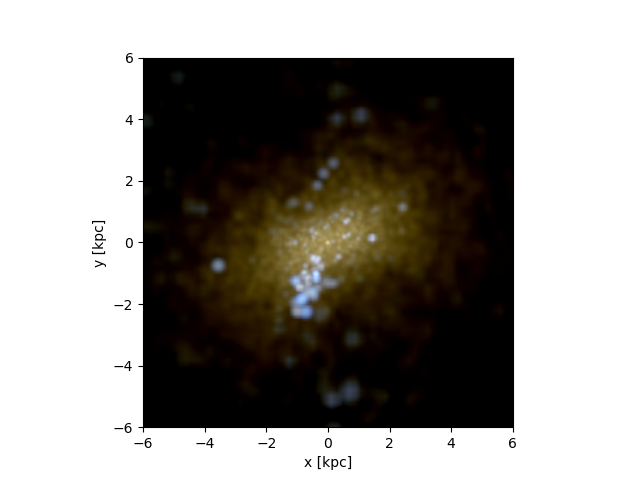
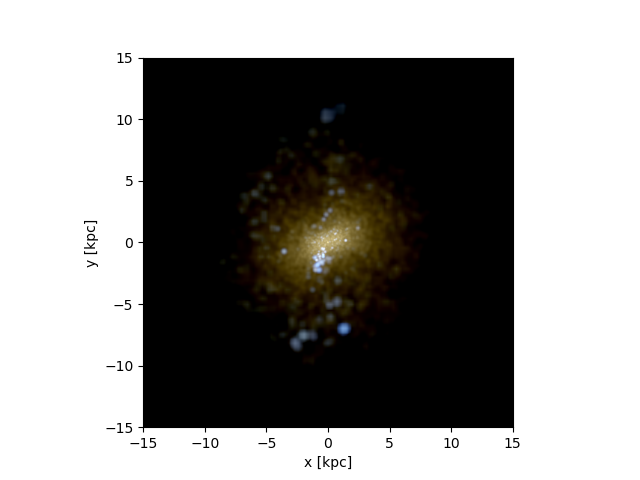
axis updated

diff --git a/r284/galaxy284_iongas.py b/r284/galaxy284_iongas.py
@@ -13,13 +13,14 @@ s=pynbody.load('/mnt/data0/jillian/gguaman/r284/cosmo25p.768sg1bwK1BHe75.007779'
 s.physical_units()
 
 #centering halo
-pynbody.analysis.angmom.faceon(s)
+#pynbody.analysis.angmom.faceon(s)
+pynbody.analysis.angmom.sideon(s)
 
 #filter to only use ionised gas
 GasFilter = pynbody.filt.HighPass('temp','15848 K')
 
 #creating image to show velocity of ionised gas
-sph.image(s.g[GasFilter],qty="vr",vmin=-20,width=40,denoise=True,approximate_fast=False,log=False)
+sph.image(s.g[GasFilter],qty="vr",vmin=-20,width=30,denoise=True,approximate_fast=False,log=False)
 
 #function to find BH
 def findBH(s):
@@ -52,4 +53,5 @@ BHz=BHposition[[0],2]
 plt.plot(BHx,BHy, 'ro')
 
 #plt.show()
-plt.savefig("galaxy284_iongas.png")
+#plt.savefig("galaxy284_iongas.png")
+plt.savefig("galaxy284_iongas(side).png")

diff --git a/r284/galaxy284_velocity.py b/r284/galaxy284_velocity.py
@@ -12,10 +12,11 @@ s=pynbody.load('/mnt/data0/jillian/gguaman/r284/cosmo25p.768sg1bwK1BHe75.007779'
 s.physical_units()
 
 #centering halo
-pynbody.analysis.angmom.faceon(s)
+#pynbody.analysis.angmom.faceon(s)
+pynbody.analysis.angmom.sideon(s)
 
 #creating gas velocity plot
-sph.image(s.g,qty="vr",width=40,denoise=True,approximate_fast=False,log=False)
+sph.image(s.g,qty="vr",width=30,denoise=True,approximate_fast=False,log=False)
 
 #function to find BH
 def findBH(s):
@@ -48,4 +49,5 @@ BHz=BHposition[[0],2]
 plt.plot(BHx,BHy, 'ro')
 
 #plt.show()
-plt.savefig("galaxy284_velocity.png")
+#plt.savefig("galaxy284_velocity.png")
+plt.savefig("galaxy284_velocity(side).png")

diff --git a/r284/galaxy284_temp.py b/r284/galaxy284_temp.py
@@ -12,10 +12,11 @@ s=pynbody.load('/mnt/data0/jillian/gguaman/r284/cosmo25p.768sg1bwK1BHe75.007779'
 s.physical_units()
 
 #centering halo
-pynbody.analysis.angmom.faceon(s)
+#pynbody.analysis.angmom.faceon(s)
+pynbody.analysis.angmom.sideon(s)
 
 #creating slice to show gas temp
-sph.image(s.g,qty="temp",width=40,denoise=True,approximate_fast=False,log=True)
+sph.image(s.g,qty="temp",width=30,denoise=True,approximate_fast=False,log=True)
 
 #function to find BH
 def findBH(s):
@@ -48,4 +49,5 @@ BHz=BHposition[[0],2]
 plt.plot(BHx,BHy, 'ro')
 
 #plt.show()
-plt.savefig("galaxy284_temp.png")
+#plt.savefig("galaxy284_temp.png")
+plt.savefig("galaxy284_temp(side).png")

diff --git a/r284/galaxy284_dens.py b/r284/galaxy284_dens.py
@@ -10,10 +10,11 @@ s=pynbody.load('/mnt/data0/jillian/gguaman/r284/cosmo25p.768sg1bwK1BHe75.007779'
 s.physical_units()
 
 #centering halo and aligning disk
-pynbody.analysis.angmom.faceon(s)
+#pynbody.analysis.angmom.faceon(s)
+pynbody.analysis.angmom.sideon(s)
 
 #creating gas density slice
-sph.image(s.g,qty="rho",units="g cm^-3",width=40)
+sph.image(s.g,qty="rho",units="g cm^-3",width=30)
 
 #function to find BH
 def findBH(s):
@@ -46,4 +47,5 @@ BHz=BHposition[[0],2]
 plt.plot(BHx,BHy, 'ro')
 
 #plt.show()
-plt.savefig("galaxy284_dens.png")
+#plt.savefig("galaxy284_dens.png")
+plt.savefig("galaxy284_dens(side).png")

diff --git a/r284/galaxy284_stars.py b/r284/galaxy284_stars.py
@@ -10,10 +10,12 @@ s=pynbody.load('/mnt/data0/jillian/gguaman/r284/cosmo25p.768sg1bwK1BHe75.007779'
 s.physical_units()
 
 #centering halo
-pynbody.analysis.angmom.faceon(s)
+#pynbody.analysis.angmom.faceon(s)
+pynbody.analysis.angmom.sideon(s)
 
 #creating image using default bands(i,v,u)
-pynbody.plot.stars.render(s,width='12 kpc')
+pynbody.plot.stars.render(s,width='30 kpc')
 
 #plt.show()
-plt.savefig("galaxy284_stars.png")
+#plt.savefig("galaxy284_stars.png")
+plt.savefig("galaxy284_stars(side).png")
